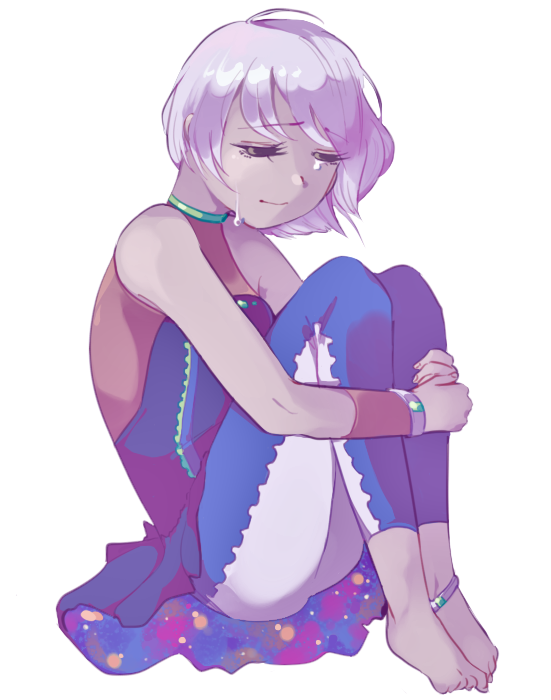
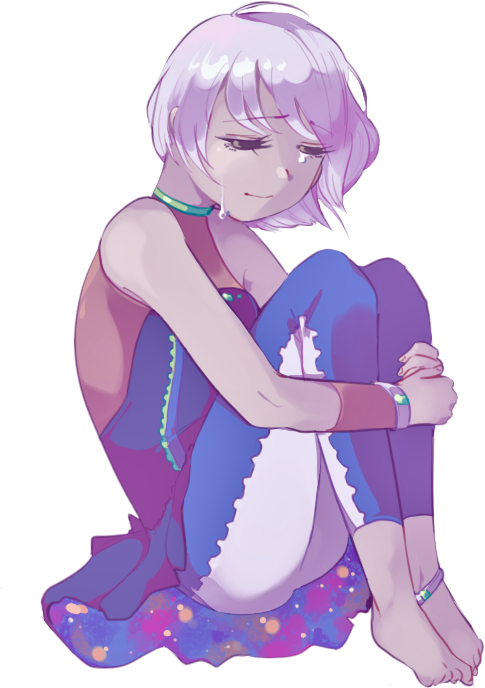
Float sad person
* Give image wiggle room
* Shrink the dimensions of the image a bit by removing transparent
padding
* Fit the image inside the smallest possible radius of the circle

diff --git a/sketch.js b/sketch.js
@@ -1,4 +1,7 @@
 const PERCENTAGE_OF_WINDOW_LENGTH = 0.65;
+const DELTA_FLOAT = 3;
+const RATE_OF_CHANGE = 1;
+let angle = 0;
 let starBlob, sadPerson;
 
 function setup() {
@@ -14,8 +17,10 @@ function draw() {
 		windowWidth / 2 - starBlob.maxLength / 2, windowHeight / 2 - starBlob.maxLength / 2,
 		starBlob.maxLength, starBlob.maxLength);
 	image(sadPerson,
-		windowWidth / 2 - widthInBlob() / 2, windowHeight / 2 - starBlob.radius / 2,
-		widthInBlob(), starBlob.radius);
+		windowWidth / 2 - widthInBlob() / 2,
+		(windowHeight / 2 - heightInBlob() / 2) + map(sin(radians(angle + 90)), 0, 1, -DELTA_FLOAT, DELTA_FLOAT * 2),
+		widthInBlob(), heightInBlob());
+	angle += RATE_OF_CHANGE;
 }
 
 function windowResized() {
@@ -41,5 +46,12 @@ function getMaxLength() {
 }
 
 function widthInBlob() {
-	return (sadPerson.width / sadPerson.height) * starBlob.radius;
+	return (sadPerson.width / sadPerson.height) * heightInBlob();
+}
+
+// Trying to fit a rectangle in a circle with this formula.
+// I tried my best to algebra, but idk if it's a correct formula
+// I also shrank the image by the delta float to give it wiggle room
+function heightInBlob() {
+	return (sqrt((4 * sq(starBlob.blob.minLength)) / (1 + sq(sadPerson.width / sadPerson.height))) / 2) - DELTA_FLOAT * 3;
 }

diff --git a/classes/Blob.js b/classes/Blob.js
@@ -40,6 +40,10 @@ class Blob {
 		return (this.radius + this.offsetMax) * 2;
 	}
 
+	get minLength() {
+		return (this.radius - this.offsetMax) * 2;
+	}
+
 	resize(radius = 150, offsetMax = 25) {
 		this.offsetMax = offsetMax;
 		this.radius = radius;

diff --git a/devNotes.md b/devNotes.md
@@ -65,6 +65,10 @@
 * [ ] For starBlob, make sure `offsetMax` is never greater than `radius/2`
     - to fix bug where star blob's perimeter goes underneath sad person in iphone landscape mode
 
+## Thu Mar 21 2019
+
+* [ ] Embed Bandcamp player of "Science is My Girlfriend"
+
 
 
 
